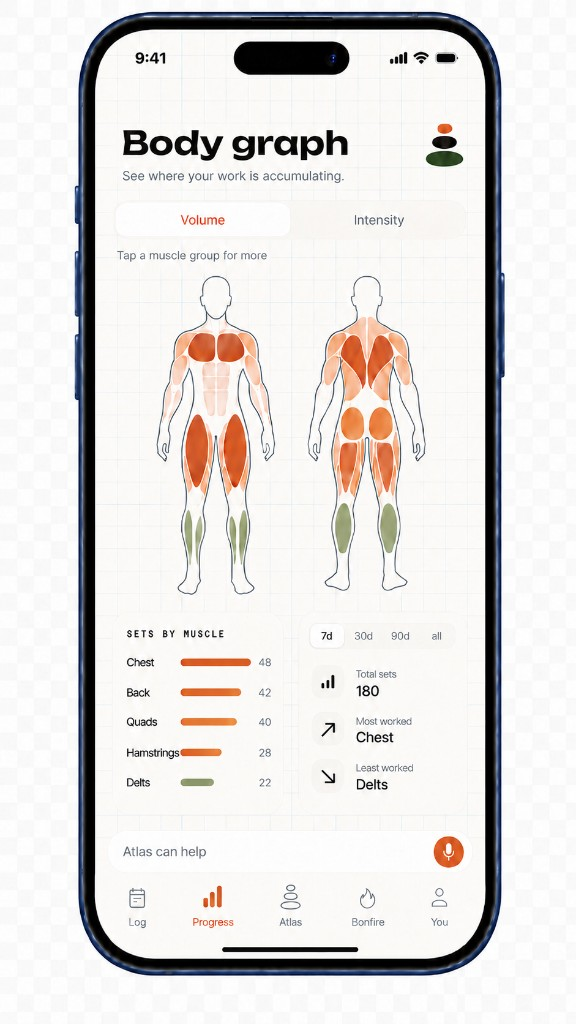
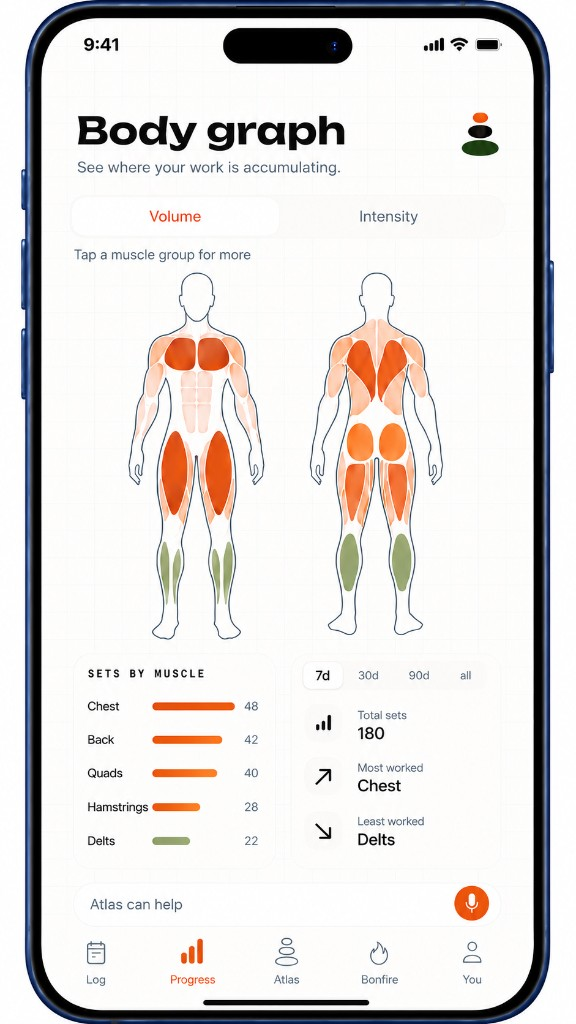
fix: update hero layering and above-the-fold order
Use the upscaled body graph phone mockup and flatten hero rendering so mobile menu overlays correctly while keeping the main headline first and clearly above the fold.

diff --git a/src/app/page.tsx b/src/app/page.tsx
@@ -2,7 +2,6 @@
 
 import Image from "next/image";
 import Link from "next/link";
-import localFont from "next/font/local";
 import { useState, type FormEvent } from "react";
 
 type Feature = {
@@ -56,27 +55,6 @@ const VALUE_PROPS = [
     tone: "light",
   },
 ] as const;
-
-const heroFont = localFont({
-  src: [
-    { path: "./fonts/Unbounded-Regular.ttf", weight: "400", style: "normal" },
-    { path: "./fonts/Unbounded-Medium.ttf", weight: "500", style: "normal" },
-    { path: "./fonts/Unbounded-Bold.ttf", weight: "700", style: "normal" },
-    { path: "./fonts/Unbounded-Black.ttf", weight: "800", style: "normal" },
-  ],
-  variable: "--font-hero",
-  display: "swap",
-});
-
-function IsoMark({ size = 28 }: { size?: number }) {
-  return (
-    <svg width={size} height={size} viewBox="0 0 120 120" aria-hidden="true">
-      <path d="M60 12 L108 36 L60 60 L12 36 Z" fill="#69A5F0" />
-      <path d="M12 36 L60 60 L60 108 L12 84 Z" fill="#2d6cb8" />
-      <path d="M108 36 L60 60 L60 108 L108 84 Z" fill="#69A5F0" opacity="0.85" />
-    </svg>
-  );
-}
 
 function IsoLogo({ size = 34 }: { size?: number }) {
   return (
@@ -315,190 +293,6 @@ function ChalkGridBG({ opacity = 1 }: { opacity?: number }) {
   );
 }
 
-function IOSStatusBar() {
-  return (
-    <div className="relative z-10 flex items-center justify-between px-7 pb-1 pt-3.5">
-      <span className="text-[15px] font-semibold tracking-tight text-black">9:41</span>
-      <div className="flex items-center gap-1.5 text-black">
-        <svg width="18" height="11" viewBox="0 0 18 11" fill="currentColor" aria-hidden="true">
-          <rect x="0" y="7" width="3" height="4" rx="0.6" />
-          <rect x="5" y="5" width="3" height="6" rx="0.6" />
-          <rect x="10" y="2.5" width="3" height="8.5" rx="0.6" />
-          <rect x="15" y="0" width="3" height="11" rx="0.6" />
-        </svg>
-        <svg width="16" height="11" viewBox="0 0 16 11" fill="currentColor" aria-hidden="true">
-          <path d="M8 2.6c2.1 0 4 .8 5.4 2.2l1.1-1.1C13 2.1 10.6 1 8 1S3 2.1 1.5 3.7l1.1 1.1C4 3.4 5.9 2.6 8 2.6z" />
-          <path d="M8 6c1.1 0 2.1.4 2.8 1.2l1.1-1.1C10.8 5 9.5 4.4 8 4.4S5.2 5 4.1 6.1l1.1 1.1C5.9 6.4 6.9 6 8 6z" />
-          <circle cx="8" cy="9.4" r="1.4" />
-        </svg>
-        <svg width="26" height="12" viewBox="0 0 26 12" fill="none" aria-hidden="true">
-          <rect x="0.5" y="0.5" width="22" height="11" rx="3" stroke="currentColor" strokeOpacity="0.35" />
-          <rect x="2" y="2" width="19" height="8" rx="1.8" fill="currentColor" />
-          <path d="M24 4v4c.8-.3 1.4-1 1.4-2S24.8 4.3 24 4z" fill="currentColor" fillOpacity="0.4" />
-        </svg>
-      </div>
-    </div>
-  );
-}
-
-function PhoneShell({ children }: { children: React.ReactNode }) {
-  return (
-    <div className="relative mx-auto w-full max-w-[340px] sm:max-w-[360px]">
-      <div className="relative overflow-hidden rounded-[46px] bg-[#f3efe6] shadow-[0_40px_80px_rgba(0,0,0,0.18),0_0_0_1px_rgba(0,0,0,0.12)]">
-        <div className="absolute left-1/2 top-2.5 z-50 h-[34px] w-[112px] -translate-x-1/2 rounded-full bg-black" />
-        <div className="absolute inset-x-0 top-0 z-40">
-          <IOSStatusBar />
-        </div>
-        {children}
-        <div className="pointer-events-none absolute inset-x-0 bottom-0 z-50 flex justify-center pb-2">
-          <div className="h-[5px] w-[120px] rounded-full bg-black/25" />
-        </div>
-      </div>
-    </div>
-  );
-}
-
-function PhoneChrome() {
-  return (
-    <div className="flex items-center justify-between px-4 pb-2 pt-3 sm:px-5">
-      <button className="flex h-9 w-9 items-center justify-center rounded-full bg-[#f3efe6]/90 shadow-[0_0_0_1px_rgba(42,36,32,0.08)]" aria-label="Menu">
-        <svg width="16" height="4" viewBox="0 0 16 4" fill="#4a423b" aria-hidden="true">
-          <circle cx="2" cy="2" r="1.6" />
-          <circle cx="8" cy="2" r="1.6" />
-          <circle cx="14" cy="2" r="1.6" />
-        </svg>
-      </button>
-      <div className="flex items-center gap-1.5 rounded-full bg-[#f3efe6]/90 px-3 py-1.5 shadow-[0_0_0_1px_rgba(42,36,32,0.08)]">
-        <IsoMark size={13} />
-        <span className="font-mono text-[9px] uppercase tracking-[0.18em] text-[#4a423b]">ISOfit · Atlas</span>
-      </div>
-      <button className="flex h-9 w-9 items-center justify-center rounded-full bg-[#f3efe6]/90 shadow-[0_0_0_1px_rgba(42,36,32,0.08)]" aria-label="Settings">
-        <svg width="14" height="14" viewBox="0 0 14 14" fill="none" aria-hidden="true">
-          <circle cx="7" cy="7" r="5" stroke="#4a423b" strokeWidth="1.5" />
-          <circle cx="7" cy="7" r="1.4" fill="#4a423b" />
-        </svg>
-      </button>
-    </div>
-  );
-}
-
-function SuggestIcon({ kind, color }: { kind: "moon" | "run" | "calendar"; color: string }) {
-  const s = { stroke: color, strokeWidth: 1.6, fill: "none", strokeLinecap: "round" as const, strokeLinejoin: "round" as const };
-  switch (kind) {
-    case "moon":
-      return (
-        <svg width="20" height="20" viewBox="0 0 22 22" aria-hidden="true">
-          <path d="M18 13A7 7 0 1 1 9 4c-.3 1-.4 2 0 3 .4 1.2 1.3 2.1 2.5 2.6 1.2.5 2.5.5 3.7 0 .8-.3 1.4-.8 1.8-1.5.5 1.6.5 3.3 0 4.9z" {...s} />
-        </svg>
-      );
-    case "run":
-      return (
-        <svg width="20" height="20" viewBox="0 0 22 22" aria-hidden="true">
-          <circle cx="14" cy="4.5" r="1.8" {...s} />
-          <path d="M7 20l3-5-3-3 3-4 4 2 4-1M5 10l2-2 4-1" {...s} />
-        </svg>
-      );
-    case "calendar":
-      return (
-        <svg width="20" height="20" viewBox="0 0 22 22" aria-hidden="true">
-          <rect x="3" y="5" width="16" height="14" rx="2" {...s} />
-          <path d="M3 9h16M7 3v4M15 3v4" {...s} />
-        </svg>
-      );
-  }
-}
-
-const CHAT_CARDS = [
-  { kicker: "Recovery", q: "How did I sleep last night, really?", meta: "62 bpm rhhr · 7h 12m", tone: "paper", icon: "moon" },
-  { kicker: "Today", q: "What should I do with my legs today?", meta: "Strain 9.4 · Recovery 71%", tone: "clay", icon: "run" },
-  { kicker: "Plan", q: "Build me a week around my half-marathon.", meta: "Race in 42 days", tone: "paper", icon: "calendar" },
-] as const;
-
-function SuggestCard({ kicker, q, meta, tone, icon }: (typeof CHAT_CARDS)[number]) {
-  const dark = tone === "clay";
-  return (
-    <div className={`flex items-start gap-3.5 rounded-[18px] px-4 py-3.5 ${dark ? "bg-[#b4583a]" : "bg-[#f3efe6]/90 shadow-[0_0_0_1px_rgba(42,36,32,0.08)]"}`}>
-      <div className={`flex h-10 w-10 shrink-0 items-center justify-center rounded-xl ${dark ? "bg-white/15" : "bg-[#ece6d9]"}`}>
-        <SuggestIcon kind={icon} color={dark ? "#f3efe6" : "#4a423b"} />
-      </div>
-      <div className="min-w-0 flex-1">
-        <p className={`font-mono text-[9px] uppercase tracking-[0.18em] ${dark ? "text-[#f3efe6]/70" : "text-[#b4583a]"}`}>{kicker}</p>
-        <p className={`mt-1.5 font-display text-[15px] font-medium leading-tight ${dark ? "text-[#f3efe6]" : "text-[#2a2420]"}`}>{q}</p>
-        <p className={`mt-2 font-mono text-[8px] uppercase tracking-[0.18em] ${dark ? "text-[#f3efe6]/55" : "text-[#7a7066]"}`}>{meta}</p>
-      </div>
-      <svg width="9" height="15" viewBox="0 0 9 15" fill="none" className="mt-1 shrink-0" aria-hidden="true">
-        <path d="M1.5 1.5l6 6-6 6" stroke={dark ? "rgba(243,239,230,0.55)" : "#7a7066"} strokeWidth="1.7" strokeLinecap="round" strokeLinejoin="round" />
-      </svg>
-    </div>
-  );
-}
-
-function ChatScreen() {
-  return (
-    <div className="relative min-h-[640px]">
-      <ChalkGridBG />
-      <div className="relative flex min-h-[640px] flex-col pt-[52px]">
-        <PhoneChrome />
-        <div className="px-6 pt-3">
-          <p className="font-mono text-[9.5px] uppercase tracking-[0.18em] text-[#7a7066]">Tue · 06:12 · 54°f</p>
-          <h3 className="mt-3 font-display text-[32px] font-bold leading-none tracking-[-0.02em] text-[#2a2420]">
-            Good morning,
-            <br />
-            <span className="text-[#b4583a]">Morgan.</span>
-          </h3>
-          <p className="mt-3 max-w-[280px] text-[13.5px] leading-snug text-[#4a423b]">
-            You recovered at <b className="font-semibold text-[#2a2420]">71%</b> — the best week you&apos;ve had in three. Ask me anything.
-          </p>
-        </div>
-        <div className="flex items-center justify-between px-6 pb-2 pt-5">
-          <span className="font-mono text-[9.5px] uppercase tracking-[0.18em] text-[#7a7066]">Ask Atlas</span>
-          <span className="flex items-center gap-1.5 font-mono text-[9px] uppercase tracking-[0.18em] text-[#7a7066]">
-            Shuffle
-            <svg width="11" height="11" viewBox="0 0 11 11" fill="none" aria-hidden="true">
-              <path d="M1 3.5h7l-2-2M10 7.5H3l2 2" stroke="#7a7066" strokeWidth="1.2" strokeLinecap="round" strokeLinejoin="round" />
-            </svg>
-          </span>
-        </div>
-        <div className="flex flex-col gap-2.5 px-5">
-          {CHAT_CARDS.map((c) => (
-            <SuggestCard key={c.q} {...c} />
-          ))}
-        </div>
-        <div className="h-6" />
-        <div
-          className="sticky bottom-0 mt-auto px-4 pb-7 pt-6"
-          style={{ background: "linear-gradient(180deg, rgba(243,239,230,0) 0%, rgba(243,239,230,0.9) 38%, #f3efe6 70%)" }}
-        >
-          <div className="flex items-center gap-2 rounded-[24px] bg-white py-2 pl-5 pr-2 shadow-[0_10px_30px_rgba(42,36,32,0.12),0_0_0_1px_rgba(42,36,32,0.08)] ring-2 ring-[#3f5a32]/40">
-            <span className="flex-1 text-[14px] text-[#7a7066]">Ask Atlas anything…</span>
-            <button className="flex h-9 w-9 items-center justify-center rounded-full bg-[#ece6d9]" aria-label="Voice input">
-              <svg width="12" height="18" viewBox="0 0 12 18" fill="none" aria-hidden="true">
-                <rect x="3" y="1" width="6" height="11" rx="3" fill="#4a423b" />
-                <path d="M1 9c0 2.8 2.2 5 5 5s5-2.2 5-5M6 14v3" stroke="#4a423b" strokeWidth="1.6" strokeLinecap="round" />
-              </svg>
-            </button>
-            <button className="flex h-9 w-9 items-center justify-center rounded-full bg-[#b4583a]" aria-label="Send">
-              <svg width="14" height="14" viewBox="0 0 14 14" fill="none" aria-hidden="true">
-                <path d="M7 13V3M3 7l4-4 4 4" stroke="#f3efe6" strokeWidth="2" strokeLinecap="round" strokeLinejoin="round" />
-              </svg>
-            </button>
-          </div>
-        </div>
-      </div>
-      <div className="pointer-events-none absolute inset-0 z-[60]">
-        <Image
-          src="/mockups/body-graph-phone.png"
-          alt="Body graph screen preview"
-          fill
-          sizes="(max-width: 768px) 90vw, 360px"
-          className="object-cover object-center scale-[1.12]"
-          priority
-        />
-      </div>
-    </div>
-  );
-}
-
 function FeatureIcon({ kind, color }: { kind: Feature["icon"]; color: string }) {
   const s = { stroke: color, strokeWidth: 1.7, fill: "none", strokeLinecap: "round" as const, strokeLinejoin: "round" as const };
   const p = { width: 24, height: 24, viewBox: "0 0 28 28", "aria-hidden": true } as const;
@@ -522,15 +316,11 @@ function FeatureIcon({ kind, color }: { kind: Feature["icon"]; color: string }) 
   }
 }
 
-function ContextNote() {
-  return <p className="mt-8 text-center font-mono text-[8.5px] uppercase tracking-[0.18em] text-[#7a7066] sm:mt-14">Images are for context only</p>;
-}
-
 export default function Page() {
   const [isMobileMenuOpen, setIsMobileMenuOpen] = useState(false);
 
   return (
-    <main className={`${heroFont.variable} relative text-[#2a2420]`}>
+    <main className="relative text-[#2a2420]">
       <div
         aria-hidden
         className="pointer-events-none fixed inset-0 -z-10"
@@ -541,7 +331,7 @@ export default function Page() {
       >
         <ChalkGridBG opacity={0.4} />
       </div>
-      <header className="sticky top-0 z-40 border-b border-[#2a2420]/15 bg-[#f3efe6]/85 backdrop-blur">
+      <header className="sticky top-0 z-[120] border-b border-[#2a2420]/15 bg-[#f3efe6]/85 backdrop-blur">
         <div className="mx-auto flex w-full max-w-[1180px] items-center justify-between gap-4 px-4 py-3 sm:px-5 md:px-8">
           <div className="shrink-0">
             <LogoLockup />
@@ -623,18 +413,25 @@ export default function Page() {
       </header>
 
       <section className="mx-auto grid w-full max-w-[1180px] items-center gap-8 px-4 pb-4 pt-8 sm:px-5 md:grid-cols-2 md:gap-12 md:px-8 md:pt-12">
-        <div className="order-1 md:order-2">
-          <PhoneShell>
-            <ChatScreen />
-          </PhoneShell>
-          <ContextNote />
+        <div className="order-2 md:order-2">
+          <div className="mx-auto w-full max-w-[430px] md:max-w-[560px]">
+            <Image
+              src="/mockups/body-graph-phone.png"
+              alt="ISOfit body graph phone mockup"
+              width={576}
+              height={1024}
+              preload
+              sizes="(max-width: 768px) 86vw, (max-width: 1200px) 42vw, 520px"
+              className="h-auto w-full"
+            />
+          </div>
         </div>
-        <div className="order-2 md:order-1">
+        <div className="order-1 md:order-1">
           <div className="inline-flex items-center gap-2 rounded-full border border-[#2a2420]/15 px-4 py-2 font-mono text-[10px] uppercase tracking-[0.2em] text-[#4a423b]">
             <span className="h-1.5 w-1.5 rounded-full bg-[#69A5F0]" />
             ISOfit · workout tracker · made for iOS
           </div>
-          <h1 className="mt-6 max-w-[920px] font-[var(--font-hero)] text-[clamp(2.2rem,10vw,4.6rem)] font-extrabold leading-[0.98] tracking-[-0.03em] text-[#2a2420]">
+          <h1 className="mt-6 max-w-[920px] font-display text-[clamp(2.2rem,10vw,4.6rem)] font-extrabold leading-[0.98] tracking-[-0.03em] text-[#2a2420]">
             You already know how to train. You just <span className="text-[#69A5F0]">stop.</span>
           </h1>
           <p className="mt-5 max-w-[980px] text-base leading-relaxed text-[#4a423b] sm:text-lg">